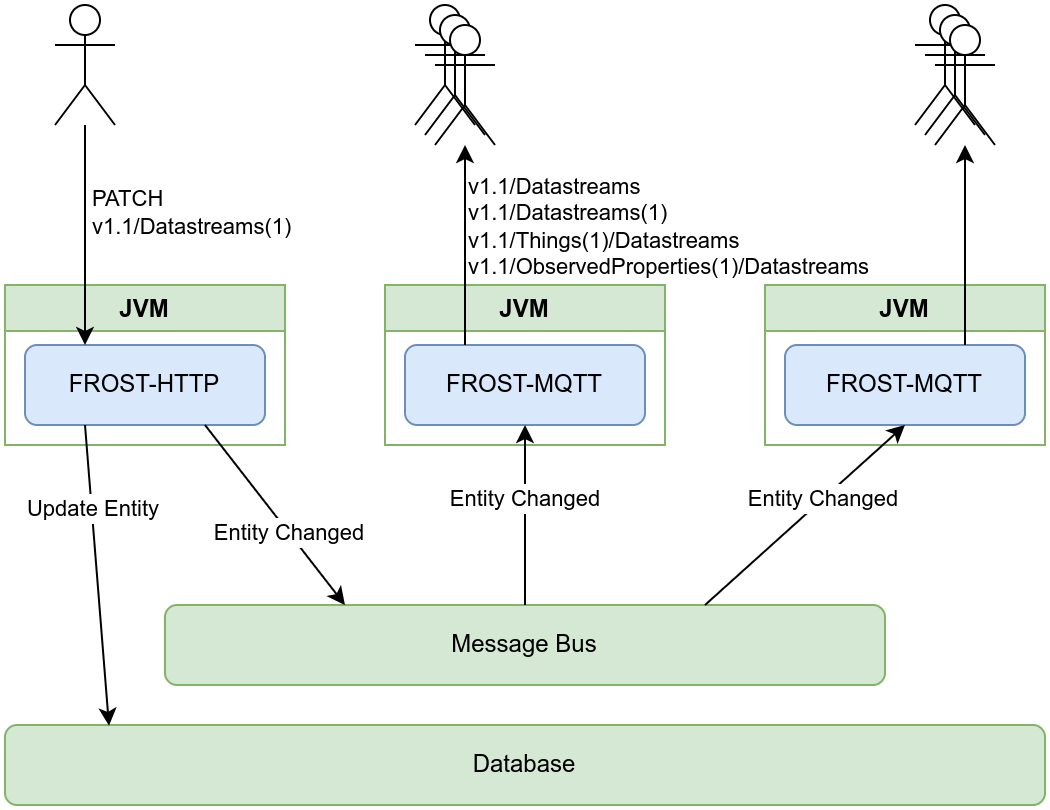
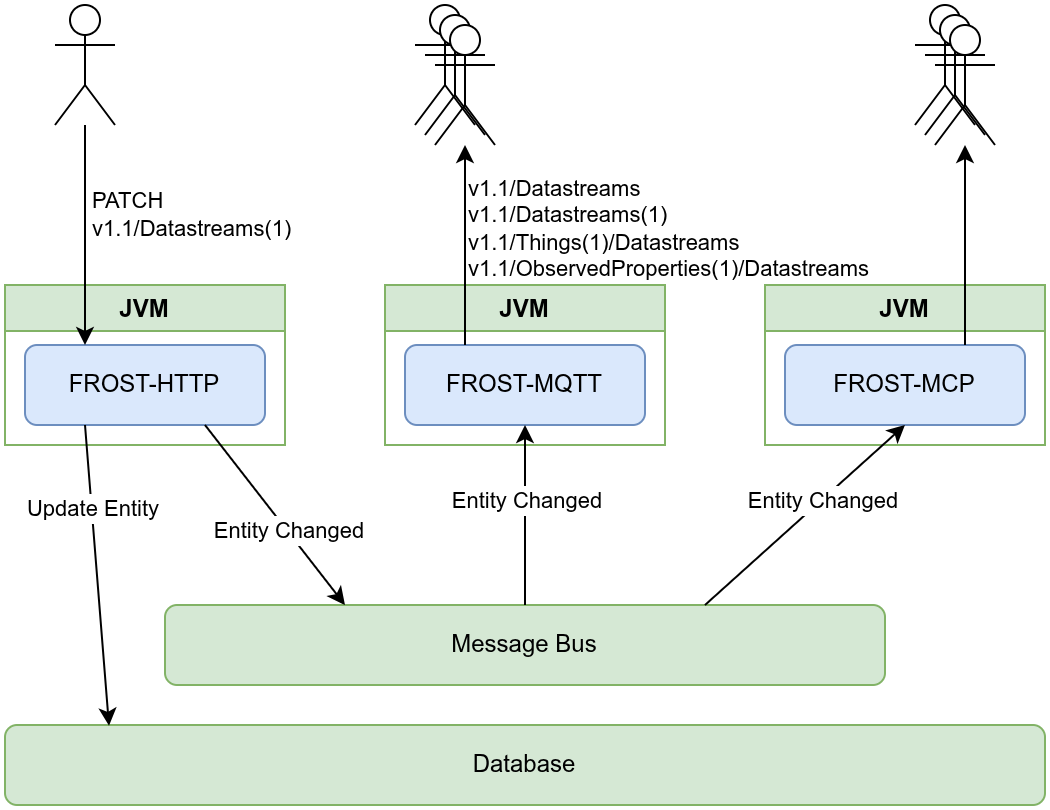
[DOC][MCP] Added MCP Interface extension page, mcp.* settings, and the MCP package to the package/docker docs

diff --git a/docs/extensions/MCP-Server.md b/docs/extensions/MCP-Server.md
@@ -1,0 +1,116 @@
+---
+layout: default
+title: MCP Server
+category: extensions
+order: 20
+---
+
+# MCP Interface
+
+The MCP package adds a [Model Context Protocol](https://modelcontextprotocol.io) (MCP)
+server to the FROST-Server. MCP is the protocol used by LLM agents (AI assistants,
+IDE agents, chat clients) to interact with external systems. The MCP interface exposes
+a FROST-Server instance — any FROST data model, not just SensorThings Sensing — to
+such agents, so they can query and manage sensor data in natural language.
+
+Since the MCP interface is a server on its own, it makes no changes to the
+SensorThings API or OData interfaces: agents build plain STA requests through the
+MCP tools, and the MCP layer maps those onto the same core `Service` as the HTTP
+interface.
+
+The interface is not part of the SensorThings API standard, nor of the OData standard.
+
+## Running the MCP server
+
+The MCP server is a **stand-alone package**, like the MQTT package: a runnable jar with
+embedded Jetty, and a docker image. It reads its settings from `FrostMcp.properties` or environment variables
+(see [settings](../settings/settings.md)), boots the FROST core and a message bus
+exactly like the other front-ends, and serves MCP at `http://host:port/mcp`
+(Streamable HTTP transport).
+
+Docker image: [fraunhoferiosb/frost-server-mcp](https://hub.docker.com/r/fraunhoferiosb/frost-server-mcp/)
+
+```bash
+docker run -d --name frost-mcp \
+    -p 8080:8080 \
+    -v $(pwd)/FrostMcp.properties:/usr/local/FROST/FrostMcp.properties \
+    fraunhoferiosb/frost-server-mcp:latest
+```
+
+A minimal `FrostMcp.properties`:
+
+```properties
+mcp.port=8080
+persistence.persistenceManagerImplementationClass=de.fraunhofer.iosb.ilt.frostserver.persistence.pgjooq.PostgresPersistenceManager
+persistence.db.url=jdbc:postgresql://database:5432/sensorthings
+persistence.db.username=sensorthings
+persistence.db.password=changeMe
+```
+
+The MCP server can be added next to an existing instance sharing the same database.
+
+## Tools
+
+Agents interact with the server through six tools, which cover the full SensorThings
+API path and query language:
+
+| Tool | Purpose |
+|---|---|
+| `frost_get` | Read any resource by path (entity, entity set, index, property, `$value`). |
+| `frost_query` | Query an entity set with the full STA query language (`$filter`, `$select`, `$expand`, `$orderby`, `$top`, `$skip`, `$count`), passing the query parts as arguments. |
+| `frost_create` | Create entities (deep inserts supported). |
+| `frost_update` | Patch entities: `mode=patch` sends the changed properties, `mode=changeset` sends an RFC 6902 JSON Patch. |
+| `frost_replace` | Replace an entity (PUT semantics). |
+| `frost_delete` | Delete an entity by id path, e.g. `Things(1)`. |
+
+All tools accept an optional `version` argument for servers that serve multiple API
+versions, so one MCP server can serve all versions at once.
+Results are STA JSON, delivered both as pretty-printed text and as structured content,
+so both simple and capable clients can use them.
+
+## Resources
+
+MCP resources give the agent orientation about the server and its data model:
+
+| URI | Content |
+|---|---|
+| `frost://index` | The STA index document, as served on `/v1.1`. |
+| `frost://model` | The complete model: all entity types, with key, property and navigation summaries. |
+| `frost://model/{entitySet}` | Details for one entity set: properties, navigation properties, key. |
+| `frost://sta/{path}` | Any STA resource, e.g. `frost://sta/Things(1)`, with the MCP limits applied. |
+
+Since the FROST data model is pluggable, the model resources are generated at server
+start-up from the actual model in the database, and are not limited to the standard
+Sensing entities.
+
+## Security
+
+The MCP server uses the same authentication providers as the HTTP server: it can run
+with Basic authentication or Keycloak/OIDC. Sessions are authenticated on the HTTP
+request, and the MCP server authorises each tool call with the same roles and
+fine-grained rules (per user, entity type and property) as the HTTP interface.
+Read-only and write roles apply as usual, and a read-only MCP server can be
+configured with the `mcp.allowTools` setting.
+
+## Settings
+
+The MCP server has the following settings, in the `mcp.` group:
+
+* **mcp.host:** Default: `0.0.0.0`
+  The address the MCP server binds on.
+* **mcp.port:** Default: `8080`
+  The port the MCP server listens on. The endpoint is served at `http://host:port/mcp`.
+* **mcp.defaultVersion:** Default: *first available version*
+  The API version used when a tool call does not specify a version.
+* **mcp.maxTop:** Default: `100`
+  The maximum page size, applied to all queries. Larger results are paged with
+  `@iot.nextLink`, so agents can fetch the rest with follow-up calls.
+* **mcp.maxResultSize:** Default: `1048576` (1 MB)
+  The maximum result size, applied after paging. Larger answers are refused with a
+  message instructing the agent to narrow the query.
+* **mcp.allowTools:** Default: `get,query,create,update,replace,delete`
+  Comma-separated list of enabled tools. A read-only MCP server, for example, uses
+  `get,query`. Tools not in the list are not advertised to clients.
+* **mcp.auth.requireAuthenticated:** Default: `false`
+  When true, anonymous MCP sessions are rejected: clients must authenticate with the
+  configured authentication provider.

diff --git a/docs/settings/settings.md b/docs/settings/settings.md
@@ -9,7 +9,7 @@ order: 20
 
 There are several ways to deploy the different packages the make up the FROST-Server.
 The HTTP and all-in-one MQTTP packages can be run in Tomcat or Wildfly, or as a docker image.
-The MQTT package is a stand-alone application that can be run directly from the command line, or as a docker image.
+The MQTT and MCP packages are stand-alone applications that can be run directly from the command line, or as a docker image.
 For each option, the configuration is taken from (in order of priority):
 
 * Tomcat
@@ -22,9 +22,9 @@ For each option, the configuration is taken from (in order of priority):
 * Wildfly
   1. Enviroment variables
   1. web.xml
-* Standalone MQTT
+* Standalone MQTT / MCP
   1. Enviroment variables
-  1. The config file: FrostMqtt.properties
+  1. The config file: FrostMqtt.properties / FrostMcp.properties
 
 **Important when using Environment variables:** Environment variables are not allowed to have the dot (`.`) character in the name. You must replace all of the dots in the names with an underscore (`_`).
 
@@ -168,6 +168,32 @@ These are settings for the MQTT package.
   When true, MQTT topics may contain `$filter` query parameters.
 * **mqtt.allowRequestResponse:** Since 2.8.2, Default: `false`  
   When true, clients can use the Request/Reponse pattern over the MQTT interface.
+
+
+## MCP settings
+
+These are settings for the MCP ([Model Context Protocol](https://modelcontextprotocol.io)) package,
+which exposes the server to LLM agents. See the
+[MCP Interface](../extensions/MCP-Server.md) extension page for details.
+
+* **mcp.host:** Default: `0.0.0.0`  
+  The address the MCP server binds on.
+* **mcp.port:** Default: `8080`  
+  The port the MCP server listens on. The endpoint is served at `http://host:port/mcp`.
+* **mcp.defaultVersion:** Default: *first available version*  
+  The API version used when a tool call does not specify a version.
+* **mcp.maxTop:** Default: `100`  
+  The maximum page size the MCP interface will serve. Results are paged with
+  `@iot.nextLink` when a query asks for more.
+* **mcp.maxResultSize:** Default: `1048576` (1 MB)  
+  The maximum result size in bytes the MCP interface will send to an agent. Larger
+  answers are refused with a message instructing the agent to narrow the query.
+* **mcp.allowTools:** Default: `get,query,create,update,replace,delete`  
+  Comma-separated list of enabled tools. A read-only MCP server, for example, uses
+  `get,query`. Tools not in the list are not advertised to clients.
+* **mcp.auth.requireAuthenticated:** Default: `false`  
+  When true, anonymous MCP sessions are rejected: clients must authenticate with the
+  configured authentication provider.
 
 
 ## Persistence Settings

diff --git a/docs/deployment/architecture-packages.md b/docs/deployment/architecture-packages.md
@@ -7,11 +7,12 @@ order: 10
 
 # Package Architecture
 
-The FROST-Server comes in three packages, and thus also in three docker images:
+The FROST-Server comes in the following packages, and thus also in docker images:
 
 * [fraunhoferiosb/frost-server](https://hub.docker.com/r/fraunhoferiosb/frost-server/) The all-in-one package
 * [fraunhoferiosb/frost-server-http](https://hub.docker.com/r/fraunhoferiosb/frost-server-http/) The HTTP-only package
 * [fraunhoferiosb/frost-server-mqtt](https://hub.docker.com/r/fraunhoferiosb/frost-server-mqtt/) The MQTT-only package
+* [fraunhoferiosb/frost-server-mcp](https://hub.docker.com/r/fraunhoferiosb/frost-server-mcp/) The MCP-only package, for LLM agents (see [MCP Interface](../extensions/MCP-Server.md))
 
 ## All In One
 
@@ -33,5 +34,8 @@ To make it possible to have multiple HTTP and MQTT instances, a message bus was 
 
 This way, there can be an arbitrary number of HTTP and MQTT components, connecting to the same (replicated) database, and communicating among each
 other through the message bus. Currently there is only one implementation of the message bus connector, that uses an external MQTT server.
+
+The [MCP package](../extensions/MCP-Server.md) is another stand-alone frontend, built the same way: it connects to the same
+(replicated) database, and communicates with the other components through the message bus, so agents see the data live.
 
 

diff --git a/docs/deployment/docker.md b/docs/deployment/docker.md
@@ -38,11 +38,12 @@ If you have docker and docker-compose
 
 ## Details
 
-There are three docker images available:
+The following docker images are available:
 
 * [fraunhoferiosb/frost-server](https://hub.docker.com/r/fraunhoferiosb/frost-server/) The all-in-one package
 * [fraunhoferiosb/frost-server-http](https://hub.docker.com/r/fraunhoferiosb/frost-server-http/) The HTTP-only package
 * [fraunhoferiosb/frost-server-mqtt](https://hub.docker.com/r/fraunhoferiosb/frost-server-mqtt/) The MQTT-only package
+* [fraunhoferiosb/frost-server-mcp](https://hub.docker.com/r/fraunhoferiosb/frost-server-mcp/) The MCP-only package, for LLM agents (see [MCP Interface](../extensions/MCP-Server.md))
 
 To make deployment of these images easier, two example docker-compose files are provided.
 The `docker-compose.yaml` file uses the all-in-one server, and adds the required postgresql / postgis database.
@@ -57,7 +58,7 @@ If you want to build your own docker images, you can do this by calling:
 
 ```
 mvn install
-mvn dockerfile:build -pl FROST-Server.HTTP,FROST-Server.MQTT,FROST-Server.MQTTP
+mvn dockerfile:build -pl FROST-Server.HTTP,FROST-Server.MQTT,FROST-Server.MQTTP,FROST-Server.MCP
 ```
 
 All data is stored inside the PostGIS database. To keep this state there's a volume automatically mapped to the PostGIS container.
